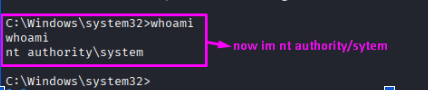
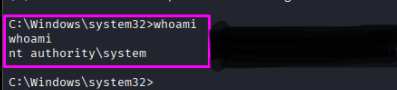
update

diff --git a/Windows-Privilege-Escalation/Unquoted Path Service/README.md b/Windows-Privilege-Escalation/Unquoted Path Service/README.md
@@ -147,7 +147,7 @@ The output confirmed two important things:
 The `BINARY_PATH_NAME` contains spaces and is not enclosed in quotation marks, which makes it vulnerable to an **Unquoted Service Path** attack.
 The service runs as **LocalSystem**, so if I successfully exploit it, I can get **SYSTEM** privileges.
 
-## Checked Write Permissions on C:\
+### Checked Write Permissions on C:\
 
 The service path starts from `C:\`, so I first checked whether I had write permission there.
 
@@ -276,7 +276,7 @@ The payload was downloaded successfully and saved as rev.exe on the victim machi
 
 ## Step 4 — Copying the Payload and Starting the Service
 
-### Copied the Payload to the Writable Folder
+### Copy the Payload to the Writable Folder
 
 Since I had write permission on C:\Program Files\Unquoted Path Service\, I copied my payload there and named it `Common.exe.`
 